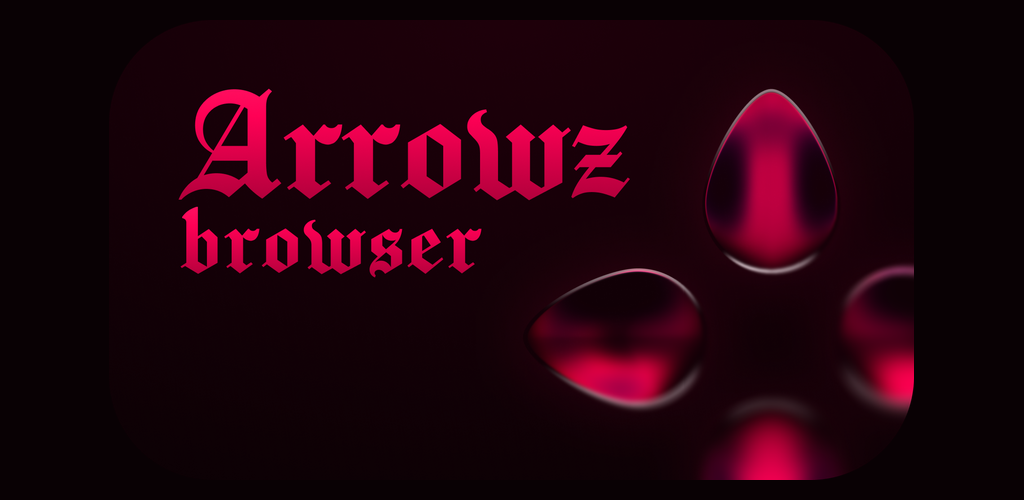
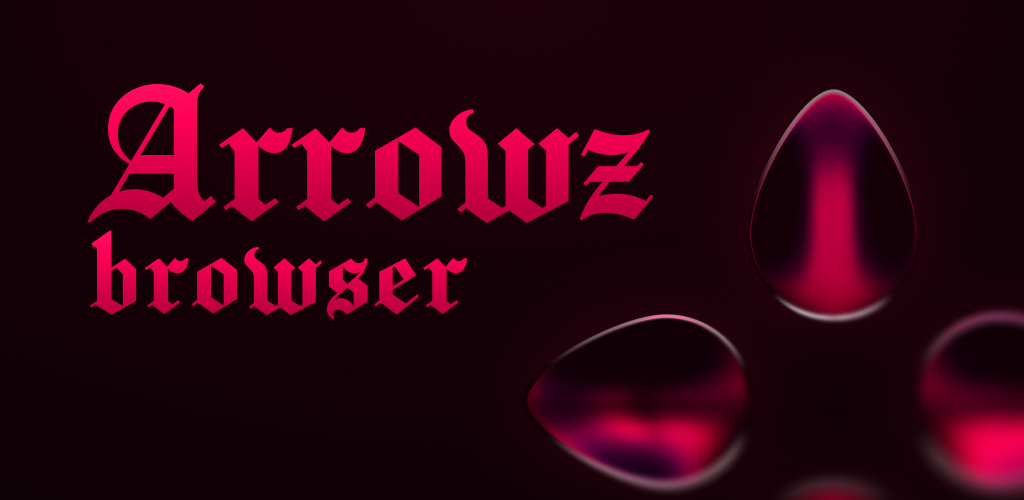
feat(brand): the designer's artwork, everywhere it was ready to go
Five of the six frames came back at exactly the declared size. The launcher
banner is a drop-in for the generated placeholder, and the wide store art
replaces the placeholders it was drawn to replace.

The accent samples as #FF0055 exactly, which is already the app's dark accent,
so no palette value had to move.

The 1920x1080 is key art rather than a frame of the app running, so it is kept
as key-art rather than replacing a store screenshot.

The two square assets are held back. They are the same image at two sizes -
mean difference 0.8 of 255 - cropped out of the wide composition, so both show
a lone "A" with the petals cut at the frame edge. Measured against the adaptive
icon's safe circle, 31% of that glyph falls outside it and its furthest corner
reaches 179px where the limit is 143, and the foreground is opaque across all
432x432 where an adaptive layer has to be transparent. One fix covers both.

Drawn on a real television, the banner also turns out to be the least separated
tile in the Apps grid: 10 luminance against the launcher's black, where the
next-darkest neighbour has 23.5 and an ordinary tile has 70 to 84. The brief
carries the numbers.

diff --git a/docs/store/asset-brief.md b/docs/store/asset-brief.md
@@ -1,5 +1,78 @@
 # Arrowz Browser — brief for the store and launcher assets
 
+## Where the set stands
+
+Five of the six frames came back at exactly the declared size and are in the
+repository. One is still open, and it is the square one.
+
+| Asset | Status |
+|---|---|
+| `launcher-banner-640x360` | In, as `app/src/main/res/drawable-xhdpi/banner.png` |
+| `play-tv-banner-1280x720` | In, as `docs/store/tv-banner-1280x720.png` |
+| `play-feature-graphic-1024x500` | In, as `docs/store/feature-graphic-1024x500.png` |
+| `play-icon-512` | In as a placeholder, and needs redrawing with the one below |
+| `adaptive-icon-foreground-432` | Not usable yet — see below |
+| `screenshot-1920x1080` | Came back as key art rather than a screenshot |
+
+The wide artwork is right. The accent samples as `#FF0055` exactly, which is the
+value already in the app, so nothing in the palette had to move.
+
+The 1920×1080 is key art, not a screenshot, so it is kept as
+`docs/store/key-art-1920x1080.png`. Play wants frames of the app actually
+running for that slot, and those already exist in `docs/store/`. The key art is
+worth having anyway.
+
+### The square icon, which is one problem and not two
+
+`play-icon-512` and `adaptive-icon-foreground-432` are the same image at two
+sizes — comparing them pixel for pixel gives a mean difference of 0.8 out of
+255. So they need one fix between them, not two.
+
+That image is a crop of the wide composition, and the crop lands mid-wordmark,
+so the square assets show a lone "A" up in the top left with the petals cut off
+at the right and bottom edges. Two things follow.
+
+**The A does not survive the launcher mask.** Measured against the 66% safe
+circle: 31% of the glyph's pixels fall outside it, and its furthest corner
+reaches 179px from centre where the limit is 143. On any launcher drawing a
+circle, the top left of the A is sliced off.
+
+**The foreground layer is fully opaque**, alpha 255 across all 432×432. An
+adaptive foreground has to be transparent where the background should show,
+because the launcher composites the two layers and slides them against each
+other during the open animation. Opaque means the background layer never
+appears and the parallax reveals a hard edge.
+
+So the square mark wants composing square from the start rather than cropped
+out of the banner: the petal cluster centred, the wordmark either dropped or
+replaced by a single centred letterform, everything inside the circle, and the
+432 exported on transparency.
+
+### The tile is darker than the shelf it sits on
+
+The banner is installed and drawn correctly on a real television. Sitting in
+the Apps grid, though, it is the least separated tile on the screen. Mean
+luminance of each tile against the launcher's black background:
+
+| Tile | Luminance | Separation |
+|---|---|---|
+| Crunchyroll | 83.7 | +83.7 |
+| Twitch | 69.5 | +69.5 |
+| NoMercy TV | 23.5 | +23.5 |
+| **Arrowz** | **10.0** | **+10.0** |
+
+The launcher draws no border and no card behind a banner, so a tile this dark
+reads as a gap in the row rather than as an app. Even NoMercy TV, which is
+itself a dark tile, has better than twice the separation.
+
+The wordmark and the petals are fine. It is the ground that disappears: it
+samples at roughly `#160007`, which against black is nearly nothing. Lifting
+the ground, or carrying the accent further across the composition, would fix it
+without changing the design. Worth seeing on a screen across the room before
+deciding how far to push it.
+
+## The frames
+
 Six frames, in `docs/store/frames/`. Drag the SVGs into Figma and each arrives as a frame at exactly the right size, filled with the mark's darkest ground and carrying its safe area as a dashed guide in a group named so it is obvious the guide goes before export.
 
 Both the fill and the guide are there to be replaced. The fill exists because Figma sizes an imported frame to the bounds of its content rather than to the declared width and height, so a frame carrying only an inset guide imports at the size of that guide instead of the size it is supposed to be.
@@ -13,8 +86,6 @@ The current exports carry their own rounded card, and that is what is going wron
 The same applies to the television tile. It sits in a row where the system draws the shape, so a mark with its own radius reads as a card floating inside a card.
 
 So: fill the frame, square corners, and let the platform do the rounding. What we lose is control of the corner, which was never ours; what we gain is the mark reaching the edges on every device instead of shrinking away from them.
-
-## The frames
 
 | Frame | Size | Where it appears | Safe area |
 |---|---|---|---|
